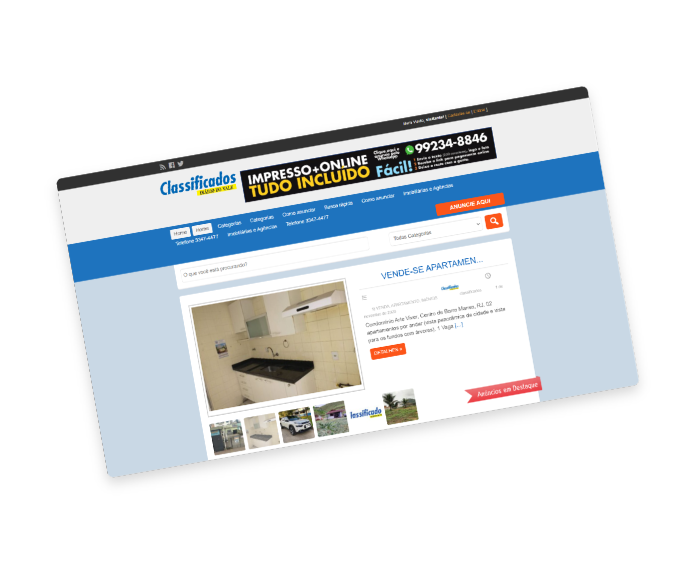
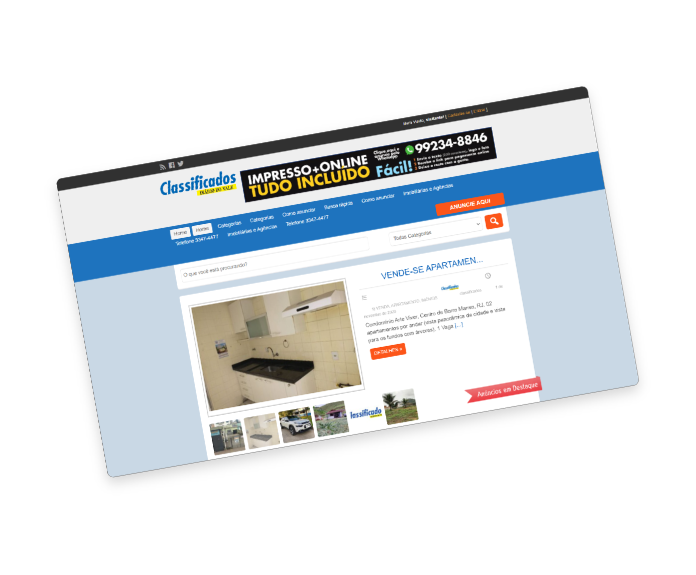
Atualizado html e css

diff --git a/index.html b/index.html
@@ -555,8 +555,8 @@
             </svg>
 
             <picture>
-                <source type="image/webp" srcset="./img/mockup.webp" width="329.87" height="269.88">
-                <img class="mockup" src="./img/mockup.png" alt="Mockup" width="329.87" height="269.88">
+                <source type="image/webp" srcset="./img/mockup.webp" width="330" height="270">
+                <img class="mockup" src="./img/mockup.png" alt="Mockup" width="330" height="270">
             </picture>
 
             <div class="classiBlur"></div>
